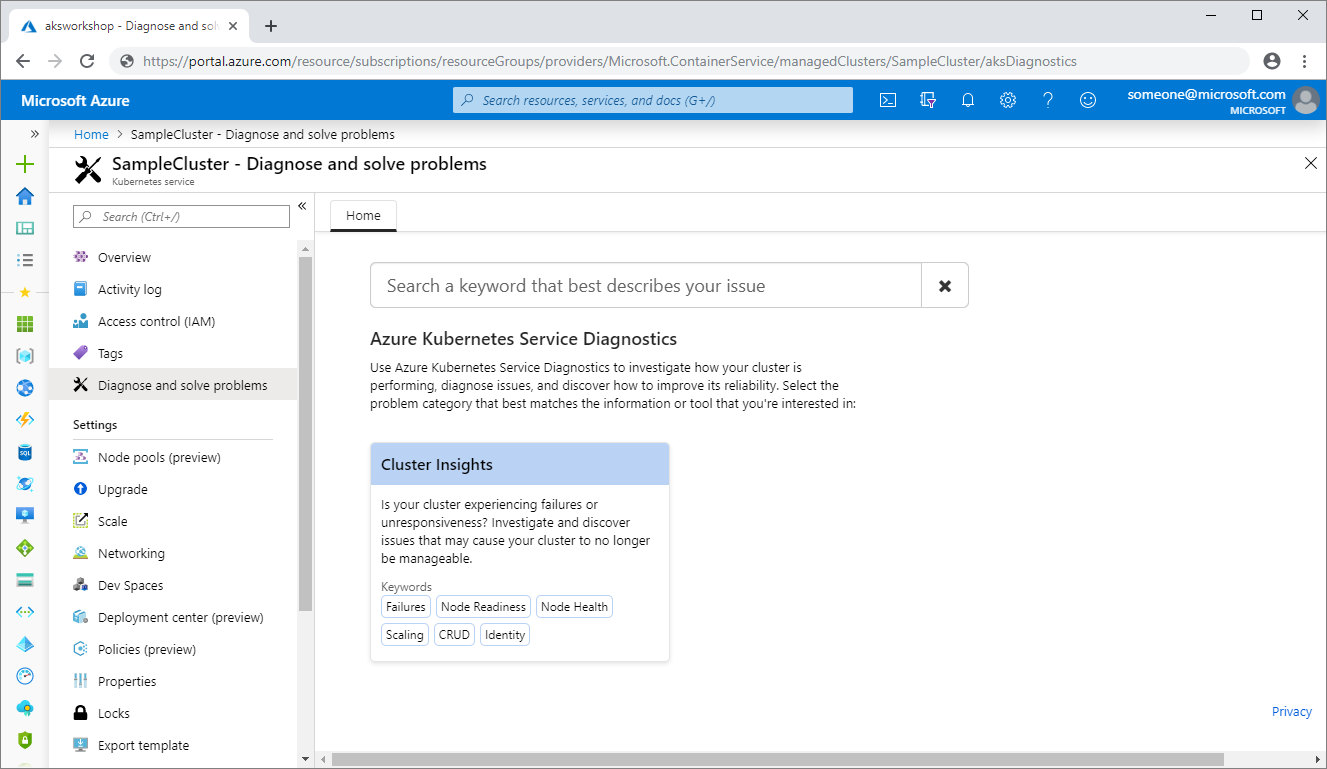
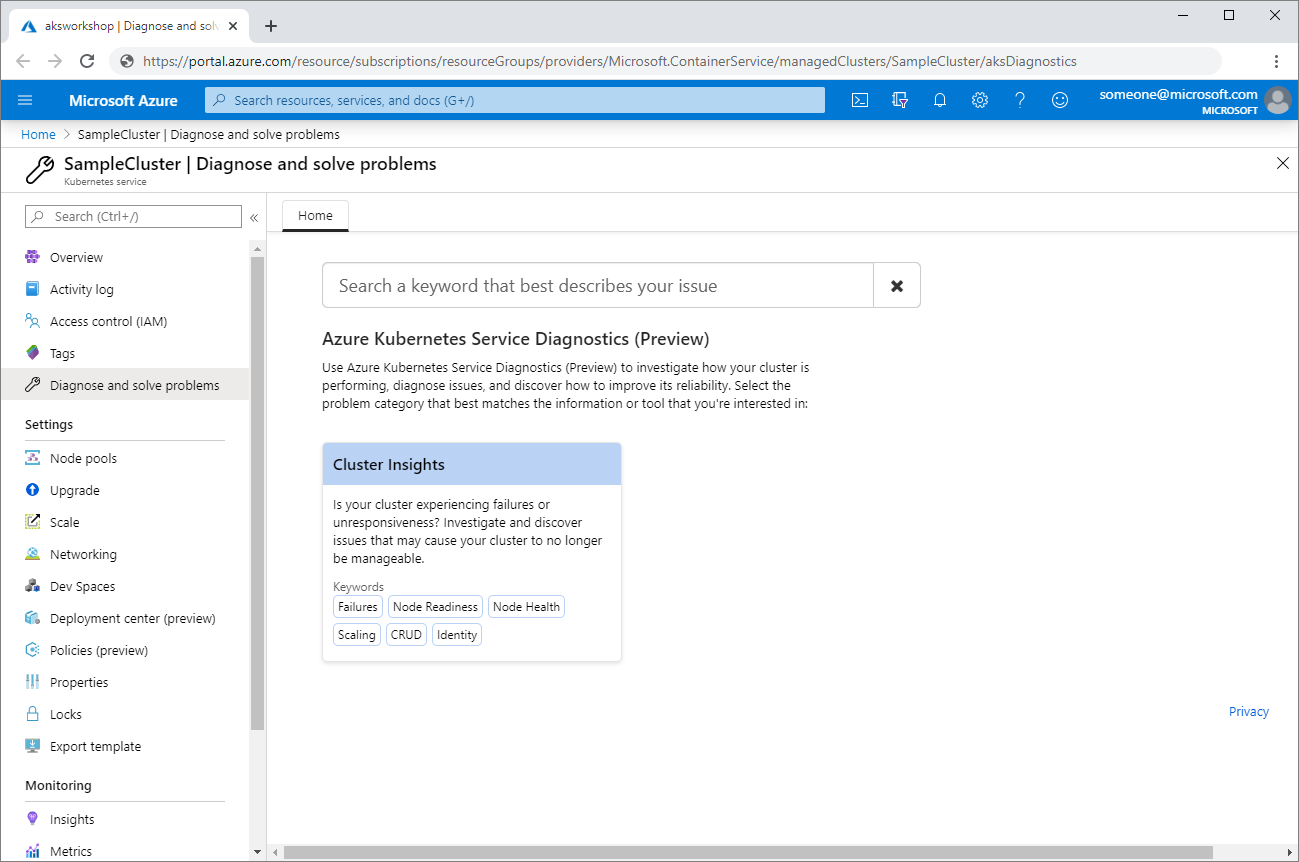
merges

diff --git a/articles/aks/private-clusters.md b/articles/aks/private-clusters.md
@@ -7,93 +7,16 @@ ms.date: 2/21/2020
 
 ---
 
-# Create a private Azure Kubernetes Service cluster (preview)
+# Create a private Azure Kubernetes Service cluster
 
 In a private cluster, the control plane or API server has internal IP addresses that are defined in the [RFC1918 - Address Allocation for Private Internets](https://tools.ietf.org/html/rfc1918) document. By using a private cluster, you can ensure that network traffic between your API server and your node pools remains on the private network only.
 
 The control plane or API server is in an Azure Kubernetes Service (AKS)-managed Azure subscription. A customer's cluster or node pool is in the customer's subscription. The server and the cluster or node pool can communicate with each other through the [Azure Private Link service][private-link-service] in the API server virtual network and a private endpoint that's exposed in the subnet of the customer's AKS cluster.
 
-> [!IMPORTANT]
-> AKS preview features are self-service and are offered on an opt-in basis. Previews are provided *as is* and *as available* and are excluded from the service-level agreement (SLA) and limited warranty. AKS previews are partially covered by customer support on a *best effort* basis. Therefore, the features aren't meant for production use. For more information, see the following support articles:
->
-> * [AKS Support Policies](support-policies.md)
-> * [Azure Support FAQ](faq.md)
-
 ## Prerequisites
 
-* The Azure CLI version 2.0.77 or later, and the Azure CLI AKS Preview extension version 0.4.18
+* The Azure CLI version 2.2.0 or later
 
-## Currently supported regions
-
-* Australia East
-* Australia Southeast
-* Brazil South
-* Canada Central
-* Canada East
-* Cenral US
-* East Asia
-* East US
-* East US 2
-* East US 2 EUAP
-* France Central
-* Germany North
-* Japan East
-* Japan West
-* Korea Central
-* Korea South
-* North Central US
-* North Europe
-* North Europe
-* South Central US
-* UK South
-* West Europe
-* West US
-* West US 2
-* East US 2
-
-## Currently Supported Availability Zones
-
-* Central US
-* East US
-* East US 2
-* France Central
-* Japan East
-* North Europe
-* Southeast Asia
-* UK South
-* West Europe
-* West US 2
-
-## Install the latest Azure CLI AKS Preview extension
-
-To use private clusters, you need the Azure CLI AKS Preview extension version 0.4.18 or later. Install the Azure CLI AKS Preview extension by using the [az extension add][az-extension-add] command, and then check for any available updates by using the following [az extension update][az-extension-update] command:
-
-```azurecli-interactive
-# Install the aks-preview extension
-az extension add --name aks-preview
-
-# Update the extension to make sure you have the latest version installed
-az extension update --name aks-preview
-```
-> [!CAUTION]
-> When you register a feature on a subscription, you can't currently un-register that feature. After you enable some preview features, you can use default settings for all AKS clusters that were created in the subscription. Don't enable preview features on production subscriptions. Use a separate subscription to test preview features and gather feedback.
-
-```azurecli-interactive
-az feature register --name AKSPrivateLinkPreview --namespace Microsoft.ContainerService
-```
-
-It might take several minutes for the registration status to show as *Registered*. You can check on the status by using the following [az feature list][az-feature-list] command:
-
-```azurecli-interactive
-az feature list -o table --query "[?contains(name, 'Microsoft.ContainerService/AKSPrivateLinkPreview')].{Name:name,State:properties.state}"
-```
-
-When the state is registered, refresh the registration of the *Microsoft.ContainerService* resource provider by using the following [az provider register][az-provider-register] command:
-
-```azurecli-interactive
-az provider register --namespace Microsoft.ContainerService
-az provider register --namespace Microsoft.Network
-```
 ## Create a private AKS cluster
 
 ### Create a resource group
@@ -155,6 +78,7 @@ As mentioned, VNet peering is one way to access your private cluster. To use VNe
 9. Go to the virtual network where you have the VM, select **Peerings**, select the AKS virtual network, and then create the peering. If the address ranges on the AKS virtual network and the VM's virtual network clash, peering fails. For more information, see  [Virtual network peering][virtual-network-peering].
 
 ## Dependencies  
+
 * The Private Link service is supported on Standard Azure Load Balancer only. Basic Azure Load Balancer isn't supported.  
 * To use a custom DNS server, deploy an AD server with DNS to forward to this IP 168.63.129.16
 
@@ -169,7 +93,6 @@ As mentioned, VNet peering is one way to access your private cluster. To use VNe
 * No support for converting existing AKS clusters into private clusters
 * Deleting or modifying the private endpoint in the customer subnet will cause the cluster to stop functioning. 
 * Azure Monitor for containers Live Data isn't currently supported.
-* *Bring your own DNS* isn't currently supported.
 
 
 <!-- LINKS - internal -->

diff --git a/articles/aks/certificate-rotation.md b/articles/aks/certificate-rotation.md
@@ -32,7 +32,7 @@ AKS generates and uses the following certificates, Certificate Authorities, and 
 * The `kubectl` client has a certificate for communicating with the AKS cluster.
 
 > [!NOTE]
-> AKS clusters created prior to March 2019 have certificates that expire after two years. Any cluster created after March 2019 or any cluster that has its certificates rotated have certificates that expire after 30 years. To verify when your cluster was created, use `kubectl get nodes` to see the *Age* of your node pools.
+> AKS clusters created prior to March 2019 have certificates that expire after two years. Any cluster created after March 2019 or any cluster that has its certificates rotated have Cluster CA certificates that expire after 30 years. All other certificates expire after two years. To verify when your cluster was created, use `kubectl get nodes` to see the *Age* of your node pools.
 > 
 > Additionally, you can check the expiration date of your cluster's certificate. For example, the following command displays the certificate details for the *myAKSCluster* cluster.
 > ```console

diff --git a/articles/aks/servicemesh-istio-install.md b/articles/aks/servicemesh-istio-install.md
@@ -413,11 +413,11 @@ To learn how to monitor your AKS application using Application Insights and Isti
 [istio-install-download]: https://istio.io/docs/setup/kubernetes/download-release/
 [istio-install-istioctl]: https://istio.io/docs/setup/install/istioctl/
 [istio-configuration-profiles]: https://istio.io/docs/setup/additional-setup/config-profiles/
-[istio-control-plane]: https://istio.io/docs/reference/config/istio.operator.v1alpha12.pb/#IstioControlPlane
+[istio-control-plane]: https://istio.io/docs/reference/config/istio.operator.v1alpha1/
 [istio-bookinfo-example]: https://istio.io/docs/examples/bookinfo/
 
 [istio-feature-stages]: https://istio.io/about/feature-stages/
-[istio-feature-sds]: https://istio.io/docs/tasks/security/auth-sds/
+[istio-feature-sds]: https://istio.io/docs/tasks/traffic-management/ingress/secure-ingress-sds/
 [istio-feature-cni]: https://istio.io/docs/setup/additional-setup/cni/
 
 [install-wsl]: https://docs.microsoft.com/windows/wsl/install-win10

diff --git a/articles/aks/concepts-diagnostics.md b/articles/aks/concepts-diagnostics.md
@@ -8,9 +8,11 @@ ms.date: 11/04/2019
 ms.author: yunjchoi
 ---
 
-# Azure Kubernetes Service (AKS) Diagnostics overview
+# Azure Kubernetes Service Diagnostics (preview) overview
 
 Troubleshooting Azure Kubernetes Service (AKS) cluster issues is an important part of maintaining your cluster, especially if your cluster is running mission-critical workloads. AKS Diagnostics is an intelligent, self-diagnostic experience that helps you identify and resolve problems in your cluster. AKS Diagnostics is cloud-native, and you can use it with no extra configuration or billing cost.
+
+This feature is now in public preview.
 
 ## Open AKS Diagnostics
 
